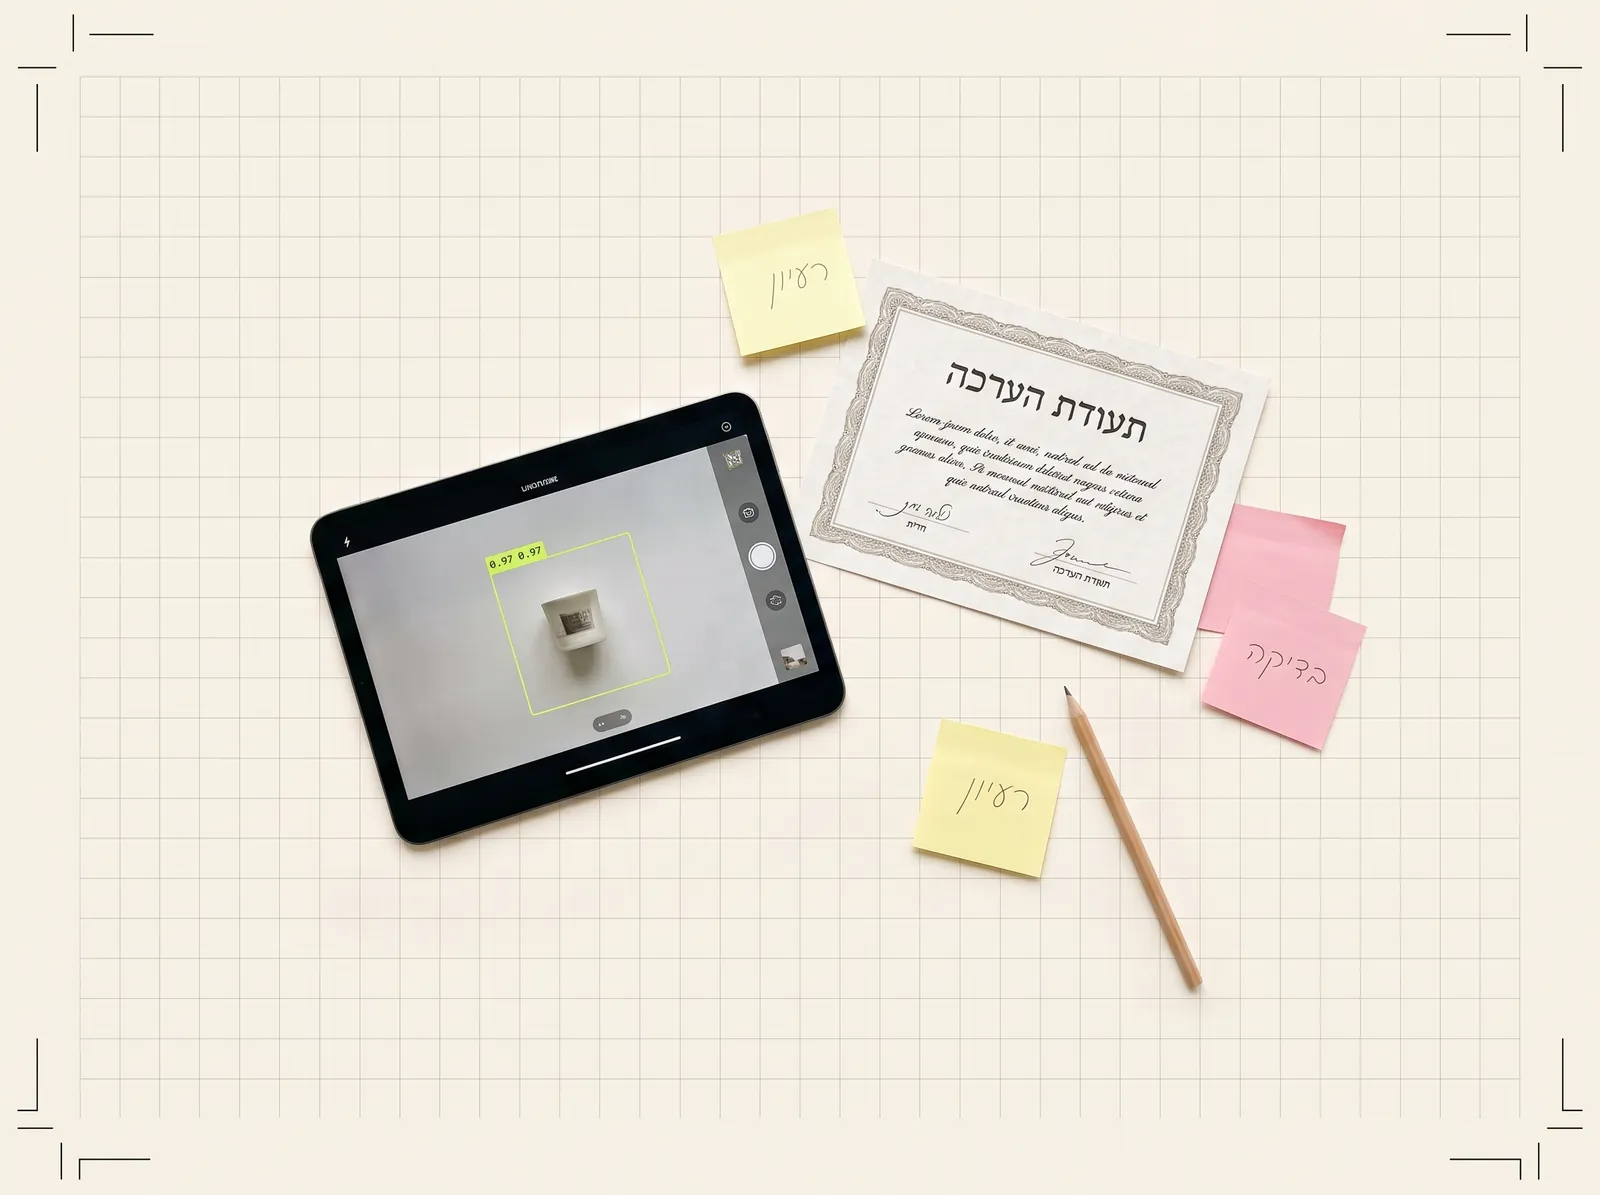
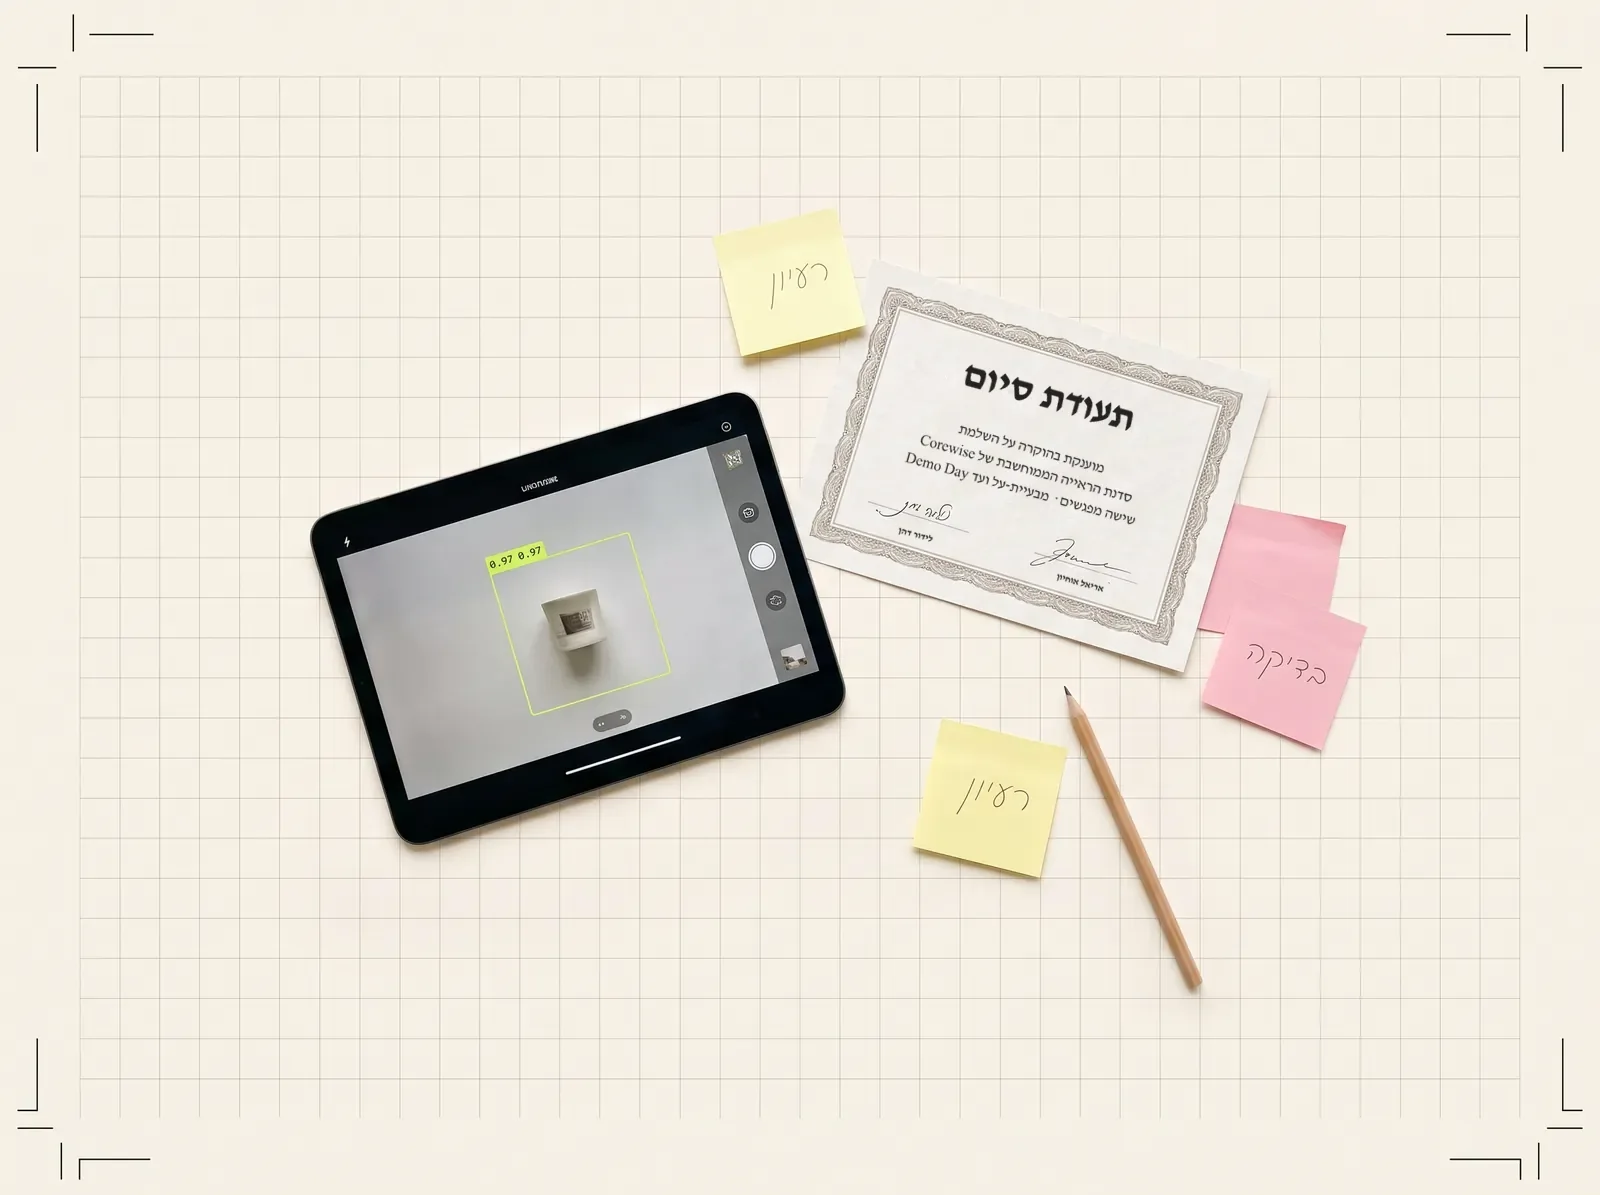
Vision workshop: fix the Demo Day and certificate photos
Demo Day screen labels now read "chair" and "backpack" instead of
"choir"/"choit". The certificate shows "תעודת סיום" with real text
about the workshop and the founders' names instead of Lorem ipsum.

Changed region(s): [[0.5625, 0.3096, 0.7188, 0.4335], [0.6562, 0.4644, 0.6875, 0.4954], [0.5625, 0.4335, 0.5938, 0.4644]]

diff --git a/vision-workshop/index.html b/vision-workshop/index.html
@@ -697,7 +697,7 @@ footer .wrap{display:flex;justify-content:space-between;gap:12px;flex-wrap:wrap;
   <section class="closing">
     <div class="wrap">
       <div class="frame">
-        <figure class="photo "><img src="img/cta.webp" loading="lazy" decoding="async" alt="טאבלט עם זיהוי חפץ לצד תעודת הערכה ופתקים צבעוניים" width="1600" height="1195"></figure>
+        <figure class="photo "><img src="img/cta.webp" loading="lazy" decoding="async" alt="טאבלט עם זיהוי חפץ לצד תעודת סיום של Corewise ופתקים צבעוניים" width="1600" height="1195"></figure>
         <div>
           <h2>כל כיתה מקבלת סדנה משלה</h2>
           <p class="mono" style="color:var(--box);margin-top:10px">כיתות ז׳–ט׳</p>
